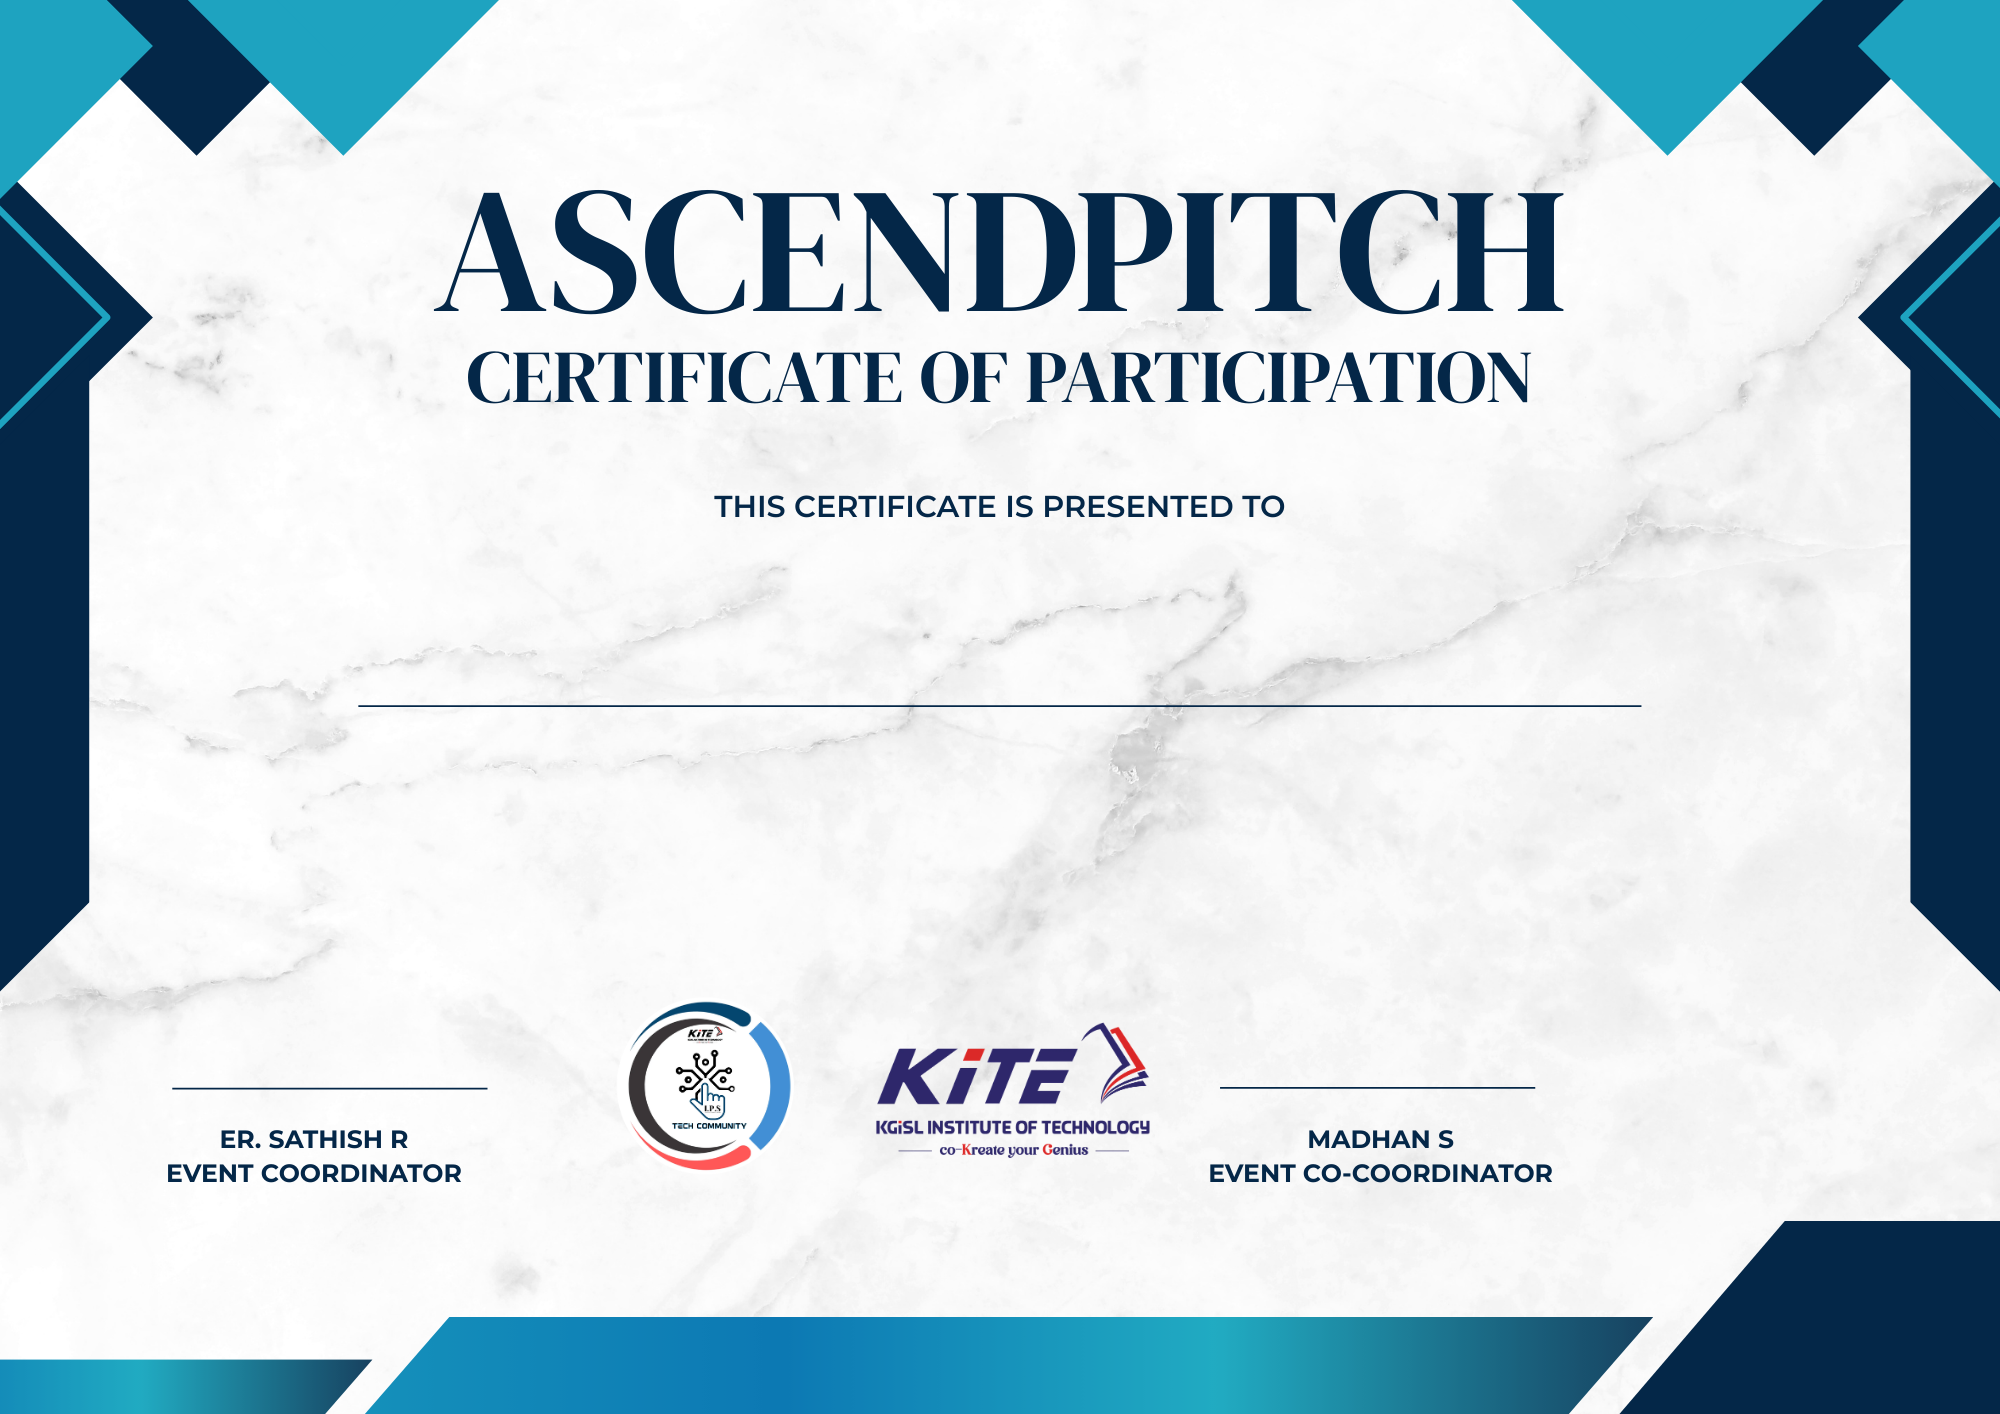
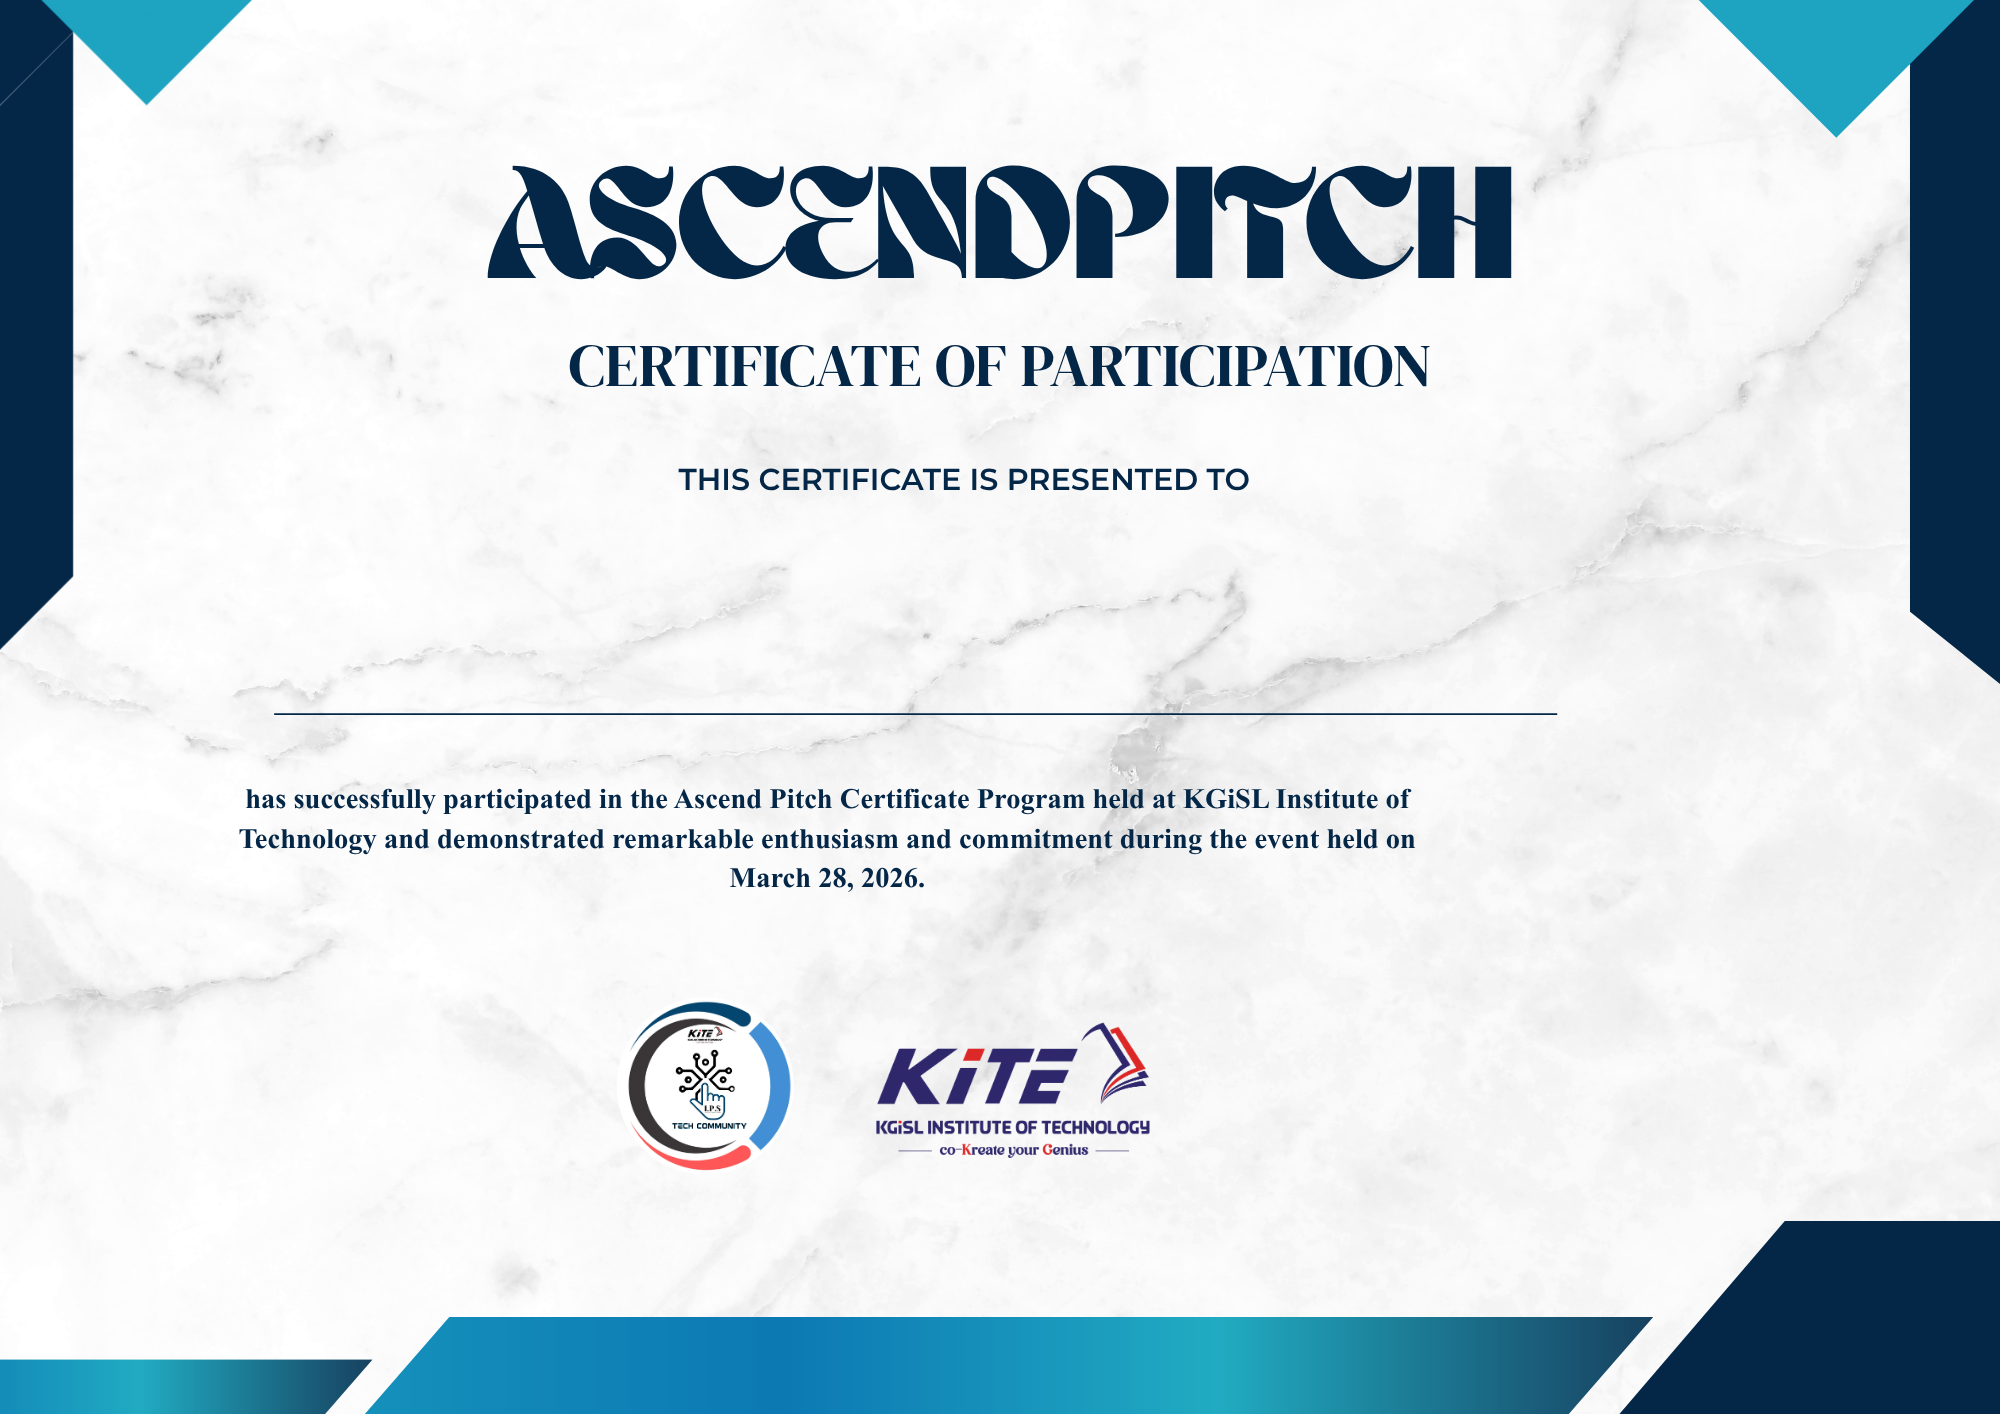
Adjust certificate layout and template

diff --git a/generator.py b/generator.py
@@ -1,6 +1,5 @@
 from PIL import Image, ImageDraw, ImageFont, ImageOps
 import qrcode
-import textwrap
 import os
 import re
 
@@ -51,61 +50,96 @@ def generate_certificate(template_path, output_path, participant_name, college_n
         if not os.path.exists(font_file):
             raise FileNotFoundError(f"Font file not found: {font_file}")
     
-    # Load Fonts
-    name_font = ImageFont.truetype(name_font_path, 110)
-    desc_font = ImageFont.truetype(desc_font_path, 42)
+    # Start with balanced font sizes and auto-fit where needed.
+    name_font_size = max(52, int(img_height * 0.030))
+    desc_font_size = max(20, int(img_height * 0.010))
+    name_font = ImageFont.truetype(name_font_path, name_font_size)
+    desc_font = ImageFont.truetype(desc_font_path, desc_font_size)
+
+    # Relative anchors keep placement stable if template dimensions change.
+    line_y = int(img_height * 0.49)
+
+    photo_size = max(210, int(img_height * 0.100))
+    photo_card_padding = 12
+    photo_card_size = photo_size + (photo_card_padding * 2)
+    photo_margin_right = int(img_width * 0.065)
+    photo_margin_top = int(img_height * 0.100)
+    photo_x = img_width - photo_card_size - photo_margin_right
+    photo_y = photo_margin_top
+
+    qr_size = max(170, int(img_height * 0.085))
+    qr_card_padding = 12
+    qr_card_size = qr_size + (qr_card_padding * 2)
+    qr_margin_right = int(img_width * 0.055)
+    qr_margin_bottom = int(img_height * 0.095)
+    qr_x = img_width - qr_card_size - qr_margin_right
+    qr_y = img_height - qr_card_size - qr_margin_bottom
 
     if participant_photo_path:
         photo = Image.open(participant_photo_path).convert("RGB")
-        photo = ImageOps.fit(photo, (290, 290), method=Image.Resampling.LANCZOS)
-        img.paste(photo, (1580, 390))
+        photo = ImageOps.fit(photo, (photo_size, photo_size), method=Image.Resampling.LANCZOS)
+
+        # Keep photo inside border on a white card.
+        framed_photo = Image.new("RGB", (photo_card_size, photo_card_size), "white")
+        frame_draw = ImageDraw.Draw(framed_photo)
+        frame_draw.rectangle(
+            [0, 0, photo_card_size - 1, photo_card_size - 1],
+            outline="#d1d5db",
+            width=1,
+        )
+        framed_photo.paste(photo, (photo_card_padding, photo_card_padding))
+        img.paste(framed_photo, (photo_x, photo_y))
 
     # =============================
     # ANCHOR: HORIZONTAL LINE
     # =============================
     
-    line_y = 640
-
     # =============================
     # NAME
     # =============================
     
-    bbox = draw.textbbox((0, 0), participant_name, font=name_font)
+    # Auto-shrink long names so they remain centered in the available middle area.
+    max_name_width = int(img_width * 0.58)
+    while True:
+        bbox = draw.textbbox((0, 0), participant_name, font=name_font)
+        text_width = bbox[2] - bbox[0]
+        if text_width <= max_name_width or name_font_size <= 34:
+            break
+        name_font_size -= 2
+        name_font = ImageFont.truetype(name_font_path, name_font_size)
+
     text_width = bbox[2] - bbox[0]
+    text_height = bbox[3] - bbox[1]
     name_x = (img_width - text_width) // 2
-    name_y = line_y - 85
+    name_y = line_y - text_height - 14
     draw.text((name_x, name_y), participant_name, fill="#0b2a44", font=name_font)
 
     # =============================
     # DESCRIPTION
     # =============================
     
-    description = (
-        f'from {college_name} has successfully participated in the Ascend Pitch '
-        'held at KGiSL Institute of Technology and demonstrated remarkable enthusiasm '
-        'and commitment during the event held on March 28, 2026.'
-    )
-
-    wrapped = textwrap.fill(description, 65)
-    desc_y = line_y + 60
-    line_spacing = 48
-
-    for line in wrapped.split("\n"):
-        bbox = draw.textbbox((0, 0), line, font=desc_font)
+    # Keep body text minimal to avoid overlapping the printed template wording.
+    if college_name:
+        college_line = f"{college_name}"
+        bbox = draw.textbbox((0, 0), college_line, font=desc_font)
         text_width = bbox[2] - bbox[0]
         desc_x = (img_width - text_width) // 2
-        draw.text((desc_x, desc_y), line, fill="#0b2a44", font=desc_font)
-        desc_y += line_spacing
+        desc_y = line_y + 20
+        draw.text((desc_x, desc_y), college_line, fill="#0b2a44", font=desc_font)
 
     # =============================
     # QR
     # =============================
     
-    qr = qrcode.make(qr_data)
-    qr = qr.resize((240, 240))
-    qr_x = img_width - 400
-    qr_y = img_height - 450
-    img.paste(qr, (qr_x, qr_y))
+    qr = qrcode.make(qr_data).convert("RGB")
+    qr = qr.resize((qr_size, qr_size), Image.Resampling.NEAREST)
+
+    # Keep QR inside border on a white card.
+    framed_qr = Image.new("RGB", (qr_card_size, qr_card_size), "white")
+    qr_draw = ImageDraw.Draw(framed_qr)
+    qr_draw.rectangle([0, 0, qr_card_size - 1, qr_card_size - 1], outline="#d1d5db", width=1)
+    framed_qr.paste(qr, (qr_card_padding, qr_card_padding))
+    img.paste(framed_qr, (qr_x, qr_y))
 
     # =============================
     # VERIFY TEMPLATE SIZE
